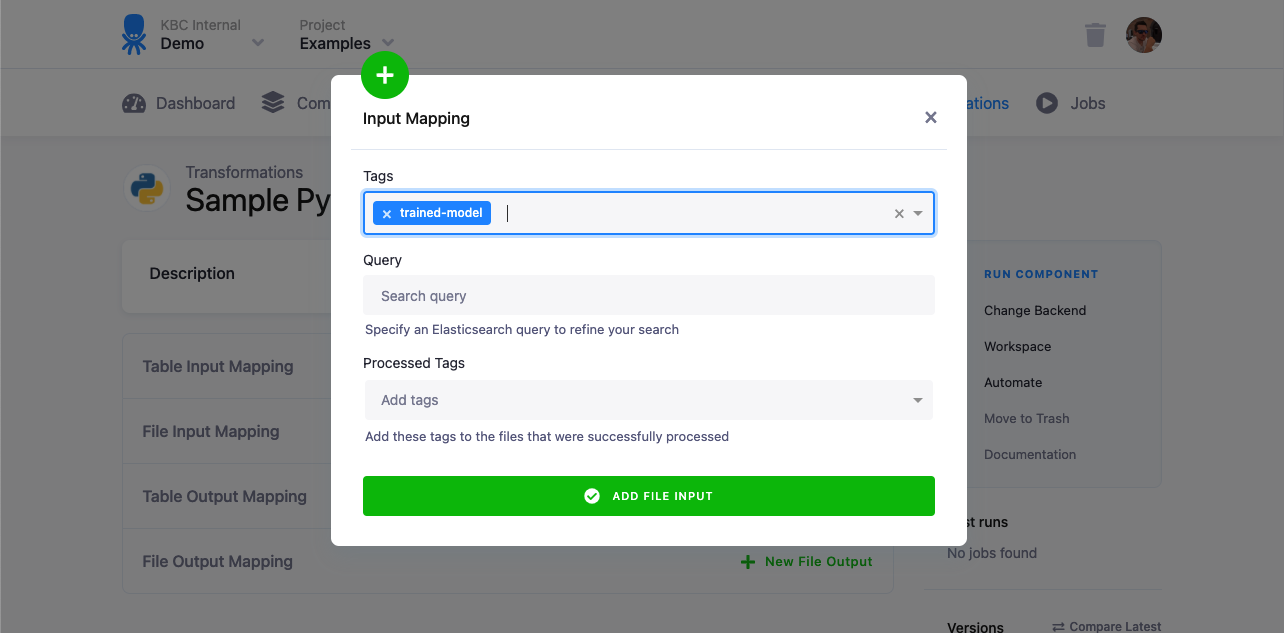
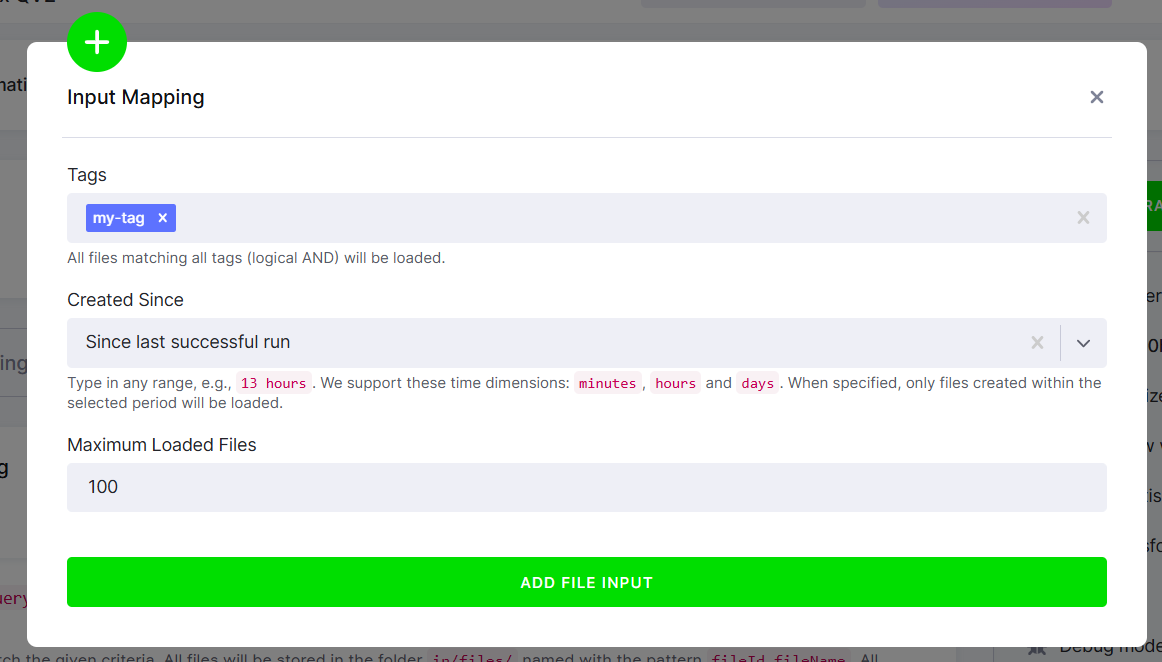
Merge pull request #930 from keboola/jirka/deprecate-processed-tags
docs: deprecate Processed Tags in file input mapping

Pull request: docs: deprecate Processed Tags in file input mapping
<!-- if proofreading is needed, create issue in PROOF project, optionally link also other issues
    if not, ask someone for review, if you are unsure who, ask hhanova
-->

Jira issue(s): n/a (driven by [INC-00973](https://keboolaglobal.slack.com/archives/C0B50HTDVQE))

The **Processed Tags** option in file input mapping is being deprecated. It is fundamentally incompatible with the `storage-branches` feature (a job running in a dev branch cannot write tags back to files in production storage), which caused INC-00973 during the rollout on 20 May 2026.

After investigation we decided to deprecate the option rather than complete its storage-branches support — adoption is narrow (~253 actively used configurations) and viable alternatives exist for all known use cases. UI removal of the option ships separately.

Changes:

- Add a deprecation warning to the **Processed Tags** option under File Input Mapping.
- Add an **Alternatives to Processed Tags** subsection covering: incremental Storage tables, time-bounded queries, component state files, and explicit `file_ids`.

---

Companion PR in developers-docs: https://github.com/keboola/developers-docs/pulls?q=is%3Apr+head%3Ajirka%2Fdeprecate-processed-tags

diff --git a/transformations/mappings/index.md b/transformations/mappings/index.md
@@ -229,14 +229,18 @@ malformed files, etc.) or, for example, to work with pre-trained models that you
 ![File Input Mapping](/transformations/mappings/file-input-mapping.png)
 
 #### Options
-- **Tags** --- specify [tags](/storage/files/#uploading-file) which 
-will be used to select files.
-- **Query** --- if selecting files by tags is not precise enough, you can use 
-an [elastic query](https://www.elastic.co/guide/en/elasticsearch/reference/5.0/query-dsl-query-string-query.html#query-string-syntax)
-to refine the search. If you combine *query* with *tags*, both conditions must be met.
-- **Processed Tags** --- specify tags which will be assigned to the input files once the transformation is finished.
-This allows you to process Storage files in an incremental fashion. You can combine this setting with the *query* 
-option to omit already processed files in recurring transformations.
+- **Tags** — [tags](/storage/files/#uploading-file) used to select files.
+- **Changed Since** — the time range for selecting files. Either a static range (e.g. `30 minutes`) or *Since last successful run* for incremental processing (see below). With a static range, a file must satisfy **both** the tags **and** the range to be selected.
+- **Query** *(deprecated, do not use)* — legacy option for a customized [Elastic query](https://www.elastic.co/guide/en/elasticsearch/reference/5.0/query-dsl-query-string-query.html#query-string-syntax).
+- **Processed Tags** *(deprecated, do not use)* — legacy option that assigned tags to input files after the transformation finished, used to process files incrementally.
+
+{% include warning.html content="*Processed Tags* and *Query* are deprecated and not compatible with [development branches](/tutorial/branches/). New configurations should not use them, and the UI no longer offers them. Existing configurations continue to work; affected projects will be contacted before any breaking change." %}
+
+#### Incremental file processing
+
+Incremental processing is active when **Changed Since** is set to *Since last successful run*. In this mode, the configuration stores a reference to the newest file matching the specified tags. The next run continues with files newer than that reference, so the transformation is automatically fed only the files that have not yet been processed.
+
+To manipulate the state — for example, to run a backfill — use **Debug Mode → Update State** to reset it.
 
 ## Output Mapping
 An output mapping takes results (tables and files) from your transformation and stores them back in Storage. 